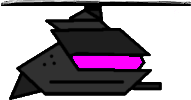
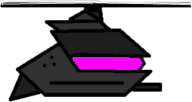
-> Untisobject now knows when they are a FlyUnit -> improved Scout unit -> Adding splited Maingame 	-> "Console.png" 	-> "Field.png"

diff --git a/Terasuit/src/inGame/Unit.java b/Terasuit/src/inGame/Unit.java
@@ -14,11 +14,21 @@ public class Unit {
 	int EntitySplashDmg = 0;
 	int EntityLive = 0;
 	String Entityname = "";
+	boolean flyingEntity = false;
 	boolean newEntity = false;
 	boolean EntityMove = false;
 	boolean EntityRushLeft = true;
 	boolean EntityFire = false;
 	boolean Entitymarked = false;
+	
+	public boolean isFlyingEntity() {
+		return flyingEntity;
+	}
+
+	public void setFlyingEntity(boolean flyingEntity) {
+		this.flyingEntity = flyingEntity;
+	}
+
 	
 	public boolean isEntityMove() {
 		return EntityMove;

diff --git a/Terasuit/src/inGame/ImageManipulator.java b/Terasuit/src/inGame/ImageManipulator.java
@@ -128,7 +128,7 @@ public class ImageManipulator {
         	 setySkalierung(27);
         	 return;
          case "Unit/Air/Scout.png":
-        	 setxSkalierung(65);
+        	 setxSkalierung(60);
         	 setySkalierung(27);
         	 return;
 	     }

diff --git a/Terasuit/src/inGame/CreateUnit.java b/Terasuit/src/inGame/CreateUnit.java
@@ -68,7 +68,7 @@ public class CreateUnit {
 			}
 		});
 		
-		
+		unit.setFlyingEntity(airUnit);
 		unit.setEntityRushLeft(true);
 		unit.setEntitymembership(color);
 		unit.setLabel(label);
